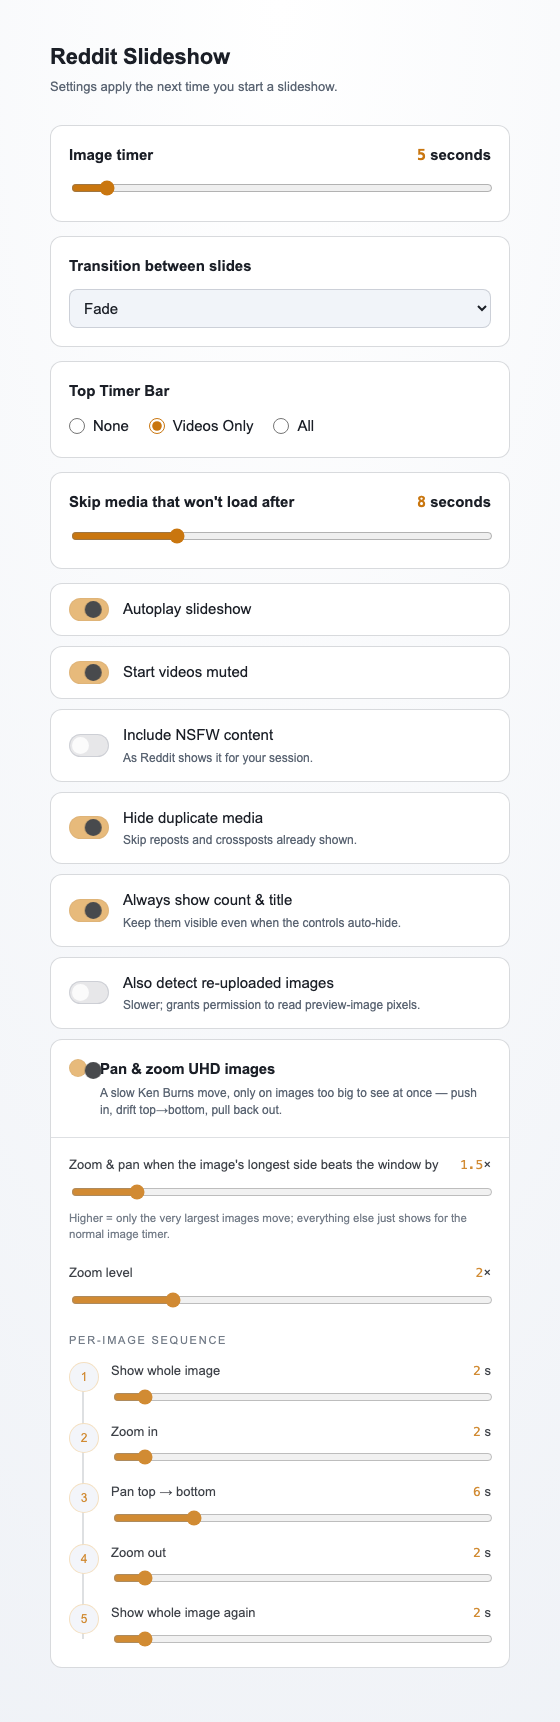
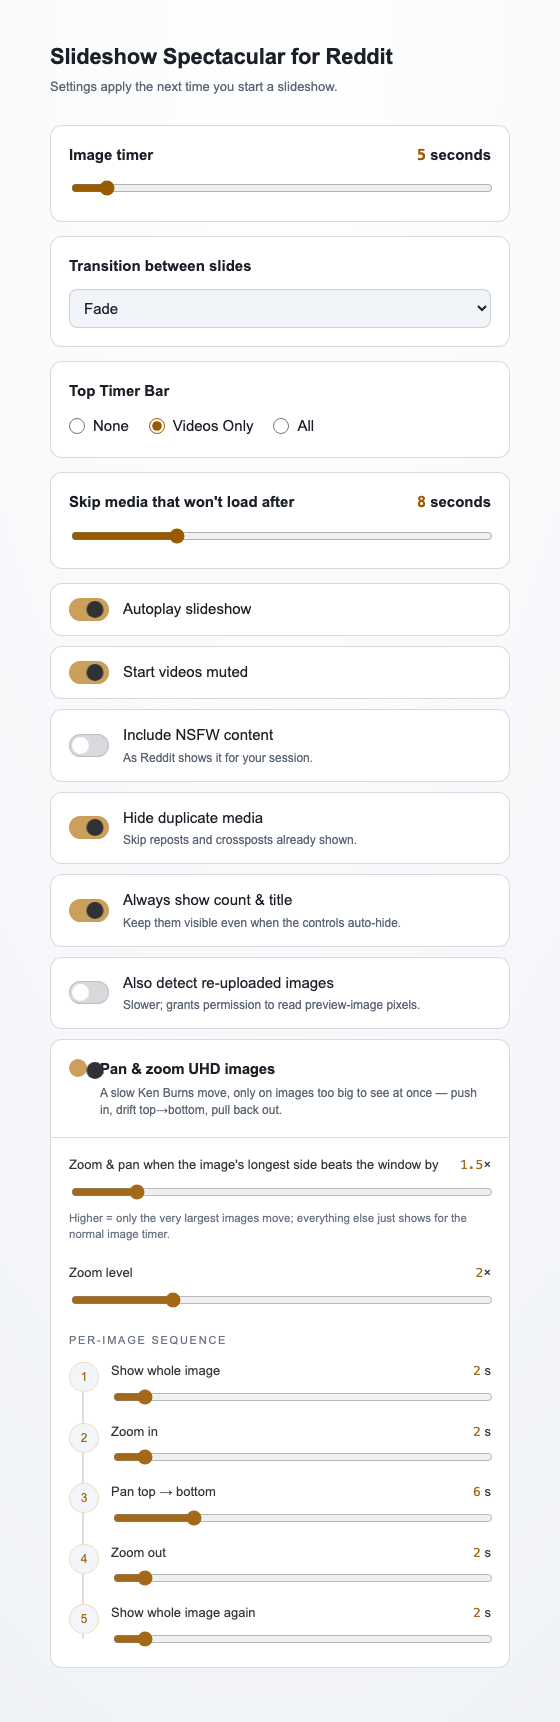
rebrand: rename to "Slideshow Spectacular for Reddit"
Settle on the "… for Reddit" convention (lower store-review risk than leading
with "Reddit"; matches the new repo Rio517/slideshow-spectacular-for-reddit).
Update the user-facing surfaces: manifest name + toolbar/command titles +
homepage_url (wxt.config.ts), the options page title + heading, the overlay
loading-splash wordmark (and its test), the README title, the doc titles, the
screenshot-harness title, and the store-listing name/prose (short form
"Slideshow Spectacular" in running prose). Regenerated the options screenshots
to show the new heading.

diff --git a/wxt.config.ts b/wxt.config.ts
@@ -3,10 +3,10 @@ import { defineConfig } from "wxt";
 export default defineConfig({
   manifestVersion: 3,
   manifest: ({ browser }) => ({
-    name: "Reddit Slideshow Spectacular!",
+    name: "Slideshow Spectacular for Reddit",
     description:
       "Turn an old or new Reddit feed into a full-screen, keyboard-driven media slideshow.",
-    homepage_url: "https://github.com/Rio517/reddit-slideshow",
+    homepage_url: "https://github.com/Rio517/slideshow-spectacular-for-reddit",
     permissions: ["storage"],
     host_permissions: [
       // Listing JSON is fetched (with the session cookie) from these two.
@@ -47,7 +47,7 @@ export default defineConfig({
       128: "icon/128.png",
     },
     action: {
-      default_title: "Start Reddit Slideshow Spectacular!",
+      default_title: "Start Slideshow Spectacular for Reddit",
       default_icon: {
         16: "icon/16.png",
         32: "icon/32.png",
@@ -58,7 +58,7 @@ export default defineConfig({
     commands: {
       _execute_action: {
         suggested_key: { default: "Alt+Shift+S" },
-        description: "Start Reddit Slideshow Spectacular!",
+        description: "Start Slideshow Spectacular for Reddit",
       },
     },
     // Firefox-only: gecko id + data-collection declaration. Omitted on Chrome,

diff --git a/entrypoints/options/index.html b/entrypoints/options/index.html
@@ -3,7 +3,7 @@
   <head>
     <meta charset="utf-8" />
     <meta name="viewport" content="width=device-width, initial-scale=1" />
-    <title>Reddit Slideshow Options</title>
+    <title>Slideshow Spectacular for Reddit — Options</title>
     <style>
       :root {
         --fg: #f5f7fa;
@@ -315,7 +315,7 @@
   </head>
   <body>
     <main>
-      <h1>Reddit Slideshow</h1>
+      <h1>Slideshow Spectacular for Reddit</h1>
       <p class="sub">Settings apply the next time you start a slideshow.</p>
 
       <label class="field">

diff --git a/lib/overlay-ui.js b/lib/overlay-ui.js
@@ -1269,7 +1269,7 @@ function buildLogo(doc, subtitle) {
   wrap.className = "rs-logo";
   const name = doc.createElement("p");
   name.className = "rs-logo__name";
-  name.textContent = "Reddit Slideshow Spectacular!";
+  name.textContent = "Slideshow Spectacular for Reddit";
   const sub = doc.createElement("p");
   sub.className = "rs-logo__sub";
   sub.textContent = subtitle;

diff --git a/scripts/slideshow-harness/index.html b/scripts/slideshow-harness/index.html
@@ -3,7 +3,7 @@
   <head>
     <meta charset="utf-8" />
     <meta name="viewport" content="width=device-width, initial-scale=1" />
-    <title>Reddit Slideshow — screenshot harness</title>
+    <title>Slideshow Spectacular for Reddit — screenshot harness</title>
     <style>
       html,
       body {

diff --git a/tests/unit/overlay-ui.test.js b/tests/unit/overlay-ui.test.js
@@ -418,7 +418,7 @@ describe("createOverlay", () => {
     overlay.showLoading();
     expect(overlay.root.querySelector(".rs-logo__mark")).toBeTruthy();
     expect(overlay.root.querySelector(".rs-logo__name")?.textContent).toBe(
-      "Reddit Slideshow Spectacular!",
+      "Slideshow Spectacular for Reddit",
     );
     expect(overlay.root.querySelector(".rs-logo__sub")?.textContent).toBe(
       "Loading…",

diff --git a/docs/store-listing.md b/docs/store-listing.md
@@ -13,15 +13,16 @@ as-is.
 
 ## 1. Name
 
-**Name (both stores):** Reddit Slideshow Spectacular!
+**Name (both stores):** Slideshow Spectacular for Reddit
 
 There is no separate store/display name; the manifest `name` is
-"Reddit Slideshow Spectacular!" and the same name works on both stores.
+"Slideshow Spectacular for Reddit" and the same name works on both stores.
 
-Note for review: a name that leads with "Reddit" can draw scrutiny about implying
-official affiliation. Reddit Enhancement Suite ships under a Reddit-leading name,
-so it's allowable, but if a reviewer pushes back, a "… for Reddit" phrasing
-(e.g. "Slideshow Spectacular for Reddit") is the safer convention.
+The "… for Reddit" phrasing is deliberate: a name that _leads_ with "Reddit" can
+draw store scrutiny about implying official affiliation (it's allowable — Reddit
+Enhancement Suite does it — but "for Reddit" is the conventional, lower-risk form
+and matches Reddit's brand guidance against implying endorsement). In running
+prose the short form "Slideshow Spectacular" reads better.
 
 ---
 
@@ -45,8 +46,8 @@ so it's allowable, but if a reviewer pushes back, a "… for Reddit" phrasing
 
 ## 3. Detailed description (plain text — paste as-is)
 
-Reddit Slideshow Spectacular turns the Reddit listing you're already viewing into
-a full-screen, keyboard-driven media slideshow. Open a feed, subreddit,
+Slideshow Spectacular turns the Reddit listing you're already viewing into a
+full-screen, keyboard-driven media slideshow. Open a feed, subreddit,
 multireddit, or search results on old.reddit.com or www.reddit.com, click the
 toolbar icon (or press Alt+Shift+S), and lean back.
 
@@ -196,7 +197,7 @@ Use these answers:
 
 Plain-language summary to paste where a free-text box is offered:
 
-> Reddit Slideshow Spectacular collects nothing and sends nothing to the developer — there
+> Slideshow Spectacular collects nothing and sends nothing to the developer — there
 > is no developer server, no analytics, no telemetry, no tracking, no ads, and
 > no accounts. It makes network requests only to Reddit, Reddit's media hosts,
 > and (for Redgifs posts) Redgifs, to fetch the media you're viewing. Redgifs
@@ -250,7 +251,7 @@ want a third tile.)
 
 **Single purpose (paste into the Chrome "single purpose" field):**
 
-> Reddit Slideshow Spectacular has one purpose: to turn the Reddit listing the user is
+> Slideshow Spectacular has one purpose: to turn the Reddit listing the user is
 > currently viewing into a full-screen, keyboard-driven media slideshow of that
 > listing's images and videos.
 
@@ -282,7 +283,7 @@ want a third tile.)
 >
 > How to test: sign in to Reddit, open any media-heavy listing on
 > old.reddit.com or www.reddit.com (e.g. https://old.reddit.com/r/aww/), and
-> click the "Reddit Slideshow Spectacular" toolbar icon (or press Alt+Shift+S). A
+> click the "Slideshow Spectacular for Reddit" toolbar icon (or press Alt+Shift+S). A
 > full-screen slideshow opens over the page. Use Left/Right to navigate, Space
 > to play/pause, M to mute, F for fullscreen, and Esc to close. The gear icon
 > opens settings, which apply live. The optional "Also detect re-uploaded

diff --git a/README.md b/README.md
@@ -1,4 +1,4 @@
-# Reddit Slideshow Spectacular!
+# Slideshow Spectacular for Reddit
 
 Slideshow for videos and images in your reddit feed. Uses your current page/feed view.
 
@@ -37,7 +37,7 @@ enlarge):
 <p>
   <a href="docs/screenshots/options-light.png">
     <img src="docs/screenshots/options-light.png" width="360"
-      alt="Reddit Slideshow Spectacular options page">
+      alt="Slideshow Spectacular for Reddit options page">
   </a>
 </p>
 
@@ -81,7 +81,7 @@ a permanent install, use Firefox Developer Edition / Nightly / ESR, set
 2. Turn on **Developer mode** (toggle, top-right).
 3. Click **Load unpacked** and select the **folder** `.output/chrome-mv3/`
    (the folder itself, not a file inside it).
-4. Click the toolbar's puzzle-piece icon and pin **Reddit Slideshow Spectacular**.
+4. Click the toolbar's puzzle-piece icon and pin **Slideshow Spectacular for Reddit**.
 5. After code changes, re-run `npm run build:chrome` and click the **↻ reload**
    icon on the extension's card in `chrome://extensions`.
 

diff --git a/NEXT_STEP.md b/NEXT_STEP.md
@@ -1,4 +1,4 @@
-# NEXT_STEP — Reddit Slideshow
+# NEXT_STEP — Slideshow Spectacular for Reddit
 
 **Doc updated:** 2026-05-31 · **Branch:** `main` · **Status:** shipped-ready on `old.reddit.com` + `www.reddit.com`; CI green; store-listing copy drafted. The single-clip providers (Redgifs, Imgur `.gifv`, Streamable, Giphy, Catbox) and the shadow-root overlay have landed. Open: tip jar, Imgur albums, Redgifs streaming (§1). The shadow-root overlay and the new providers still need a real-Firefox pass (§5).
 

diff --git a/docs/README.md b/docs/README.md
@@ -1,4 +1,4 @@
-# Reddit Slideshow Documentation
+# Slideshow Spectacular for Reddit — Documentation
 
 This directory holds planning material for a Firefox-first browser extension that turns the current old Reddit feed into a keyboard-driven media slideshow.
 

diff --git a/docs/product/reddit-slideshow-product-spec.md b/docs/product/reddit-slideshow-product-spec.md
@@ -1,4 +1,4 @@
-# Reddit Slideshow Product Spec Draft
+# Slideshow Spectacular for Reddit — Product Spec Draft
 
 Date: 2026-05-29
 Status: Draft